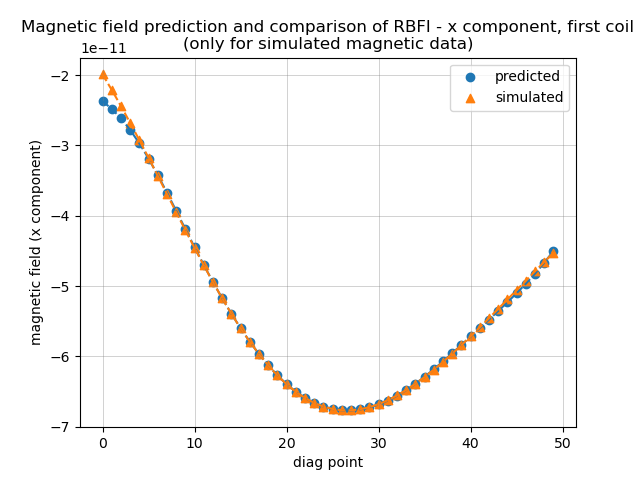
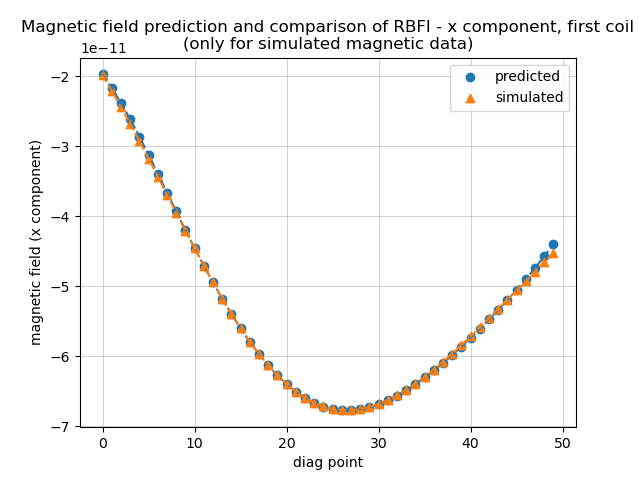
new imgs

diff --git a/dynamic calibration/density based/prediction comparison.py b/dynamic calibration/density based/prediction comparison.py
@@ -20,6 +20,21 @@ def nice_plot(x, y, x_name=None, y_name=None, name='', marker='o', grid=False, l
     if x_name is not None: plt.xlabel(x_name)
     if y_name is not None: plt.ylabel(y_name)
     if legend_pos is not None: plt.legend(loc=legend_pos)
+    
+def get_metrics(pred, unc, x_val, y_val, n_diag_points, den_to_normalize_val):
+    pred_val, pred_x, pred_y, pred_z = pred[:x_val.shape[0]], pred[x_val.shape[0]:x_val.shape[0]+n_diag_points], pred[x_val.shape[0]+n_diag_points:x_val.shape[0]+int(2*n_diag_points)], pred[x_val.shape[0]+int(2*n_diag_points):]
+    unc_val, unc_x, unc_y, unc_z = unc[:x_val.shape[0]], unc[x_val.shape[0]:x_val.shape[0]+n_diag_points], unc[x_val.shape[0]+n_diag_points:x_val.shape[0]+int(2*n_diag_points)], unc[x_val.shape[0]+int(2*n_diag_points):]
+    
+    mae_per_point = [MAE(pred_val[i], y_val[i]) for i in range(y_val.shape[0])]
+    mae = sum(mae_per_point)/len(mae_per_point)
+    mae = mae / den_to_normalize_val * 100
+    
+    rmse_per_point = [MSE(pred_val[i], y_val[i], squared=False) for i in range(y_val.shape[0])]
+    rmse = sum(rmse_per_point)/len(rmse_per_point)
+    rmse = rmse / den_to_normalize_val * 100
+    
+    return pred_val, pred_x, pred_y, pred_z, unc_val, unc_x, unc_y, unc_z, mae, mae_per_point, rmse, rmse_per_point
+    
 
 def main(origin=np.array([-50., -50., 50.]), side_length=100., n_diag_points=50, centers_x=[-93.543*1000, 0., 93.543*1000, -68.55*1000, 68.55*1000, -93.543*1000, 0., 93.543*1000], centers_y=[93.543*1000, 68.55*1000, 93.543*1000, 0., 0., -93.543*1000, -68.55*1000, -93.543*1000]):
     # put the origin of the cube, the side length and the number of points along the diagonal manually
@@ -61,6 +76,9 @@ def main(origin=np.array([-50., -50., 50.]), side_length=100., n_diag_points=50,
     # x_test, y_test = test[:, :6], test[:, 6:]
     # den_to_normalize_test = np.mean(abs(y_test))
     
+    # to get also the diagonal predictions
+    to_predict = np.concatenate((x_val, diag_for_x, diag_for_y, diag_for_z), axis=0)
+    
     dictionary_with_performances = {}
     
     # to model the noise
@@ -68,36 +86,34 @@ def main(origin=np.array([-50., -50., 50.]), side_length=100., n_diag_points=50,
     for alpha in alphas:
         
         # gaussian process regression
-        
+        '''
         gp = gpr.gaussian_process_regressor(alpha=alpha, points=x_train, measures=y_train)
         gp.fit()
-        pred, unc = gp.predict(x_val)
-        mae = MAE(pred, y_val) / den_to_normalize_val * 100
-        rmse = MSE(pred, y_val, squared=False) / den_to_normalize_val * 100
+        pred, unc = gp.predict(to_predict)
+        pred_val, pred_x, pred_y, pred_z, unc_val, unc_x, unc_y, unc_z, mae, mae_per_point, rmse, rmse_per_point = get_metrics(pred, unc, x_val, y_val, n_diag_points, den_to_normalize_val)
         r2 = gp.score(x_val, y_val)
         dictionary_with_performances["gaussian process " + str(alpha)] = {"alpha": alpha, 
                                                             "nmae": mae,
                                                             "nrmse": rmse,
                                                             "r2": r2,
-                                                            "uncertainty": unc}
-        
+                                                            "uncertainty": unc,
+                                                            "nmae per point": mae_per_point,
+                                                            "nrmse per point": rmse_per_point,
+                                                            "diag x preds": pred_x,
+                                                            "diag y preds": pred_y,
+                                                            "diag z preds": pred_z,
+                                                            "unc diag x": unc_x,
+                                                            "unc diag y": unc_y,
+                                                            "unc diag z": unc_z
+                                                            }
+        '''
         # radial basis function interpolation 
         
-        to_predict = np.concatenate((x_val, diag_for_x, diag_for_y, diag_for_z), axis=0)
+        
         crbf = crbfi.custom_radial_basis_function_interpolator(gamma=.0005, sigma=alpha, points=x_train, measures=y_train, stack_grid=to_predict) 
         pred = crbf.predict()
-        pred_val, pred_x, pred_y, pred_z = pred[:x_val.shape[0]], pred[x_val.shape[0]:x_val.shape[0]+n_diag_points], pred[x_val.shape[0]+n_diag_points:x_val.shape[0]+int(2*n_diag_points)], pred[x_val.shape[0]+int(2*n_diag_points):]
         unc = crbf.uncertainty()
-        unc_val, unc_x, unc_y, unc_z = unc[:x_val.shape[0]], unc[x_val.shape[0]:x_val.shape[0]+n_diag_points], unc[x_val.shape[0]+n_diag_points:x_val.shape[0]+int(2*n_diag_points)], unc[x_val.shape[0]+int(2*n_diag_points):]
-        
-        mae_per_point = [MAE(pred_val[i], y_val[i]) for i in range(y_val.shape[0])]
-        mae = sum(mae_per_point)/len(mae_per_point)
-        mae = mae / den_to_normalize_val * 100
-        
-        rmse_per_point = [MSE(pred_val[i], y_val[i], squared=False) for i in range(y_val.shape[0])]
-        rmse = sum(rmse_per_point)/len(rmse_per_point)
-        rmse = rmse / den_to_normalize_val * 100
-                
+        pred_val, pred_x, pred_y, pred_z, unc_val, unc_x, unc_y, unc_z, mae, mae_per_point, rmse, rmse_per_point = get_metrics(pred, unc, x_val, y_val, n_diag_points, den_to_normalize_val)
         dictionary_with_performances["custom radial basis function interpolator " + str(alpha)] = {"alpha": alpha, 
                                                             "nmae": mae,
                                                             "nrmse": rmse,
@@ -109,7 +125,7 @@ def main(origin=np.array([-50., -50., 50.]), side_length=100., n_diag_points=50,
                                                             "diag z preds": pred_z,
                                                             "unc diag x": unc_x,
                                                             "unc diag y": unc_y,
-                                                            "unc diag z": unc_z,
+                                                            "unc diag z": unc_z
                                                             }
     
         # neural network 
@@ -138,6 +154,8 @@ def main(origin=np.array([-50., -50., 50.]), side_length=100., n_diag_points=50,
     nice_plot(alphas, y, r'$\alpha$', 'error', 'nMAE', marker='^', grid=True, legend_pos='lower right')
     plt.xscale('log')
     plt.savefig('gpr alpha r2')
+    
+    '''
     
     # crbfi error vs alpha
     
@@ -192,13 +210,13 @@ def main(origin=np.array([-50., -50., 50.]), side_length=100., n_diag_points=50,
     plt.xscale('log')
     plt.yscale('log')
     plt.savefig('rbfi nrmse unc log')
-    '''
+
     
-    alpha_star = alphas[0]
+    alpha_star = alphas[0] # pick the best alpha
+    
     plt.figure()
     plt.title("Magnetic field prediction and comparison of RBFI - x component, first coil\n(only for simulated magnetic data)")
     y = dictionary_with_performances["custom radial basis function interpolator " + str(alpha_star)]['diag x preds']
-    print(y.shape, simulated_x.shape)
     nice_plot(range(n_diag_points), y[:,0], 'diag point', 'magnetic field (x component)', 'predicted', grid=True)
     nice_plot(range(n_diag_points), simulated_x[:,0], name='simulated', marker='^', legend_pos='upper right')
     # maybe uncertainty as confidence intervals?
@@ -208,22 +226,22 @@ def main(origin=np.array([-50., -50., 50.]), side_length=100., n_diag_points=50,
     plt.figure()
     plt.title("Magnetic field prediction and comparison of RBFI - y component, first coil\n(only for simulated magnetic data)")
     y = dictionary_with_performances["custom radial basis function interpolator " + str(alpha_star)]['diag y preds']
-    print(y.shape, simulated_y.shape)
     nice_plot(range(n_diag_points), y[:,0], 'diag point', 'magnetic field (y component)', 'predicted', grid=True)
     nice_plot(range(n_diag_points), simulated_y[:,0], name='simulated', marker='^', legend_pos='upper right')
     # maybe uncertainty as confidence intervals?
     plt.savefig('rbfi pred 1st coil y comp')
+    
+    # gaussian 
+    '''
+    plt.figure()
+    plt.title("Magnetic field prediction and comparison of Gaussian Process - x component, first coil\n(only for simulated magnetic data)")
+    y = dictionary_with_performances["gaussian process " + str(alpha_star)]['diag x preds']
+    nice_plot(range(n_diag_points), y[:,0], 'diag point', 'magnetic field (x component)', 'predicted', grid=True)
+    nice_plot(range(n_diag_points), simulated_x[:,0], name='simulated', marker='^', legend_pos='upper right')
+    plt.savefig('gp pred 1st coil x comp')
+    '''
+    # it does not work well
 
 main()
 
 # time (?)
-
-
-
-
-
-
-
-
-
-
